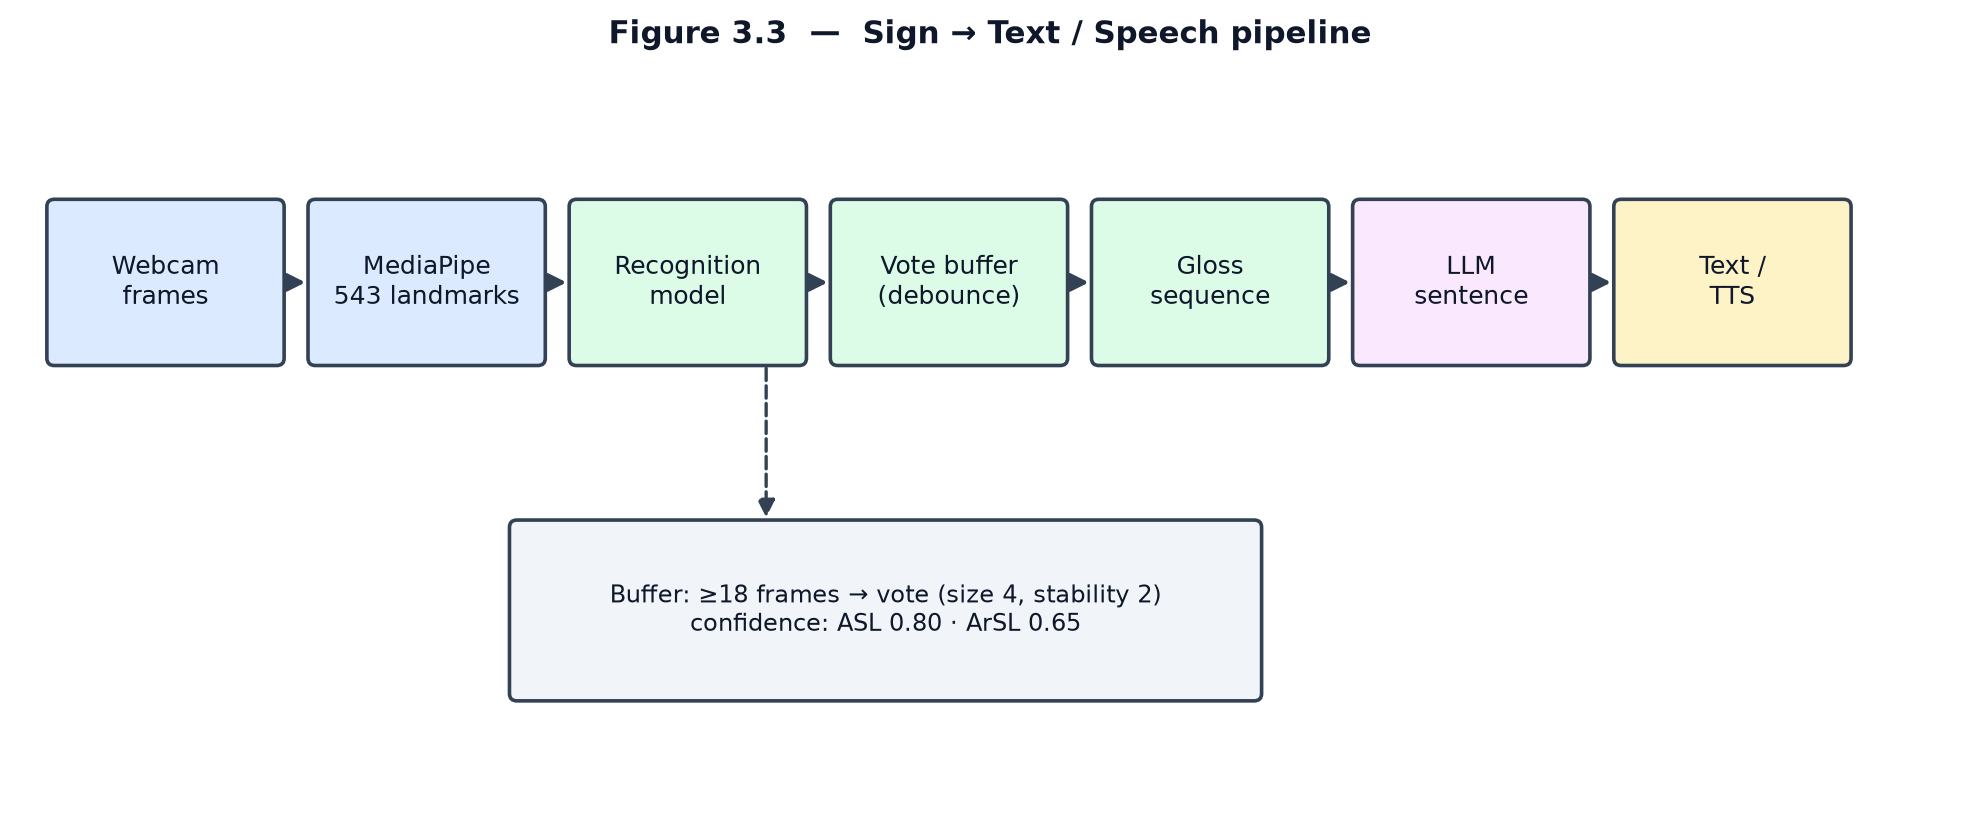
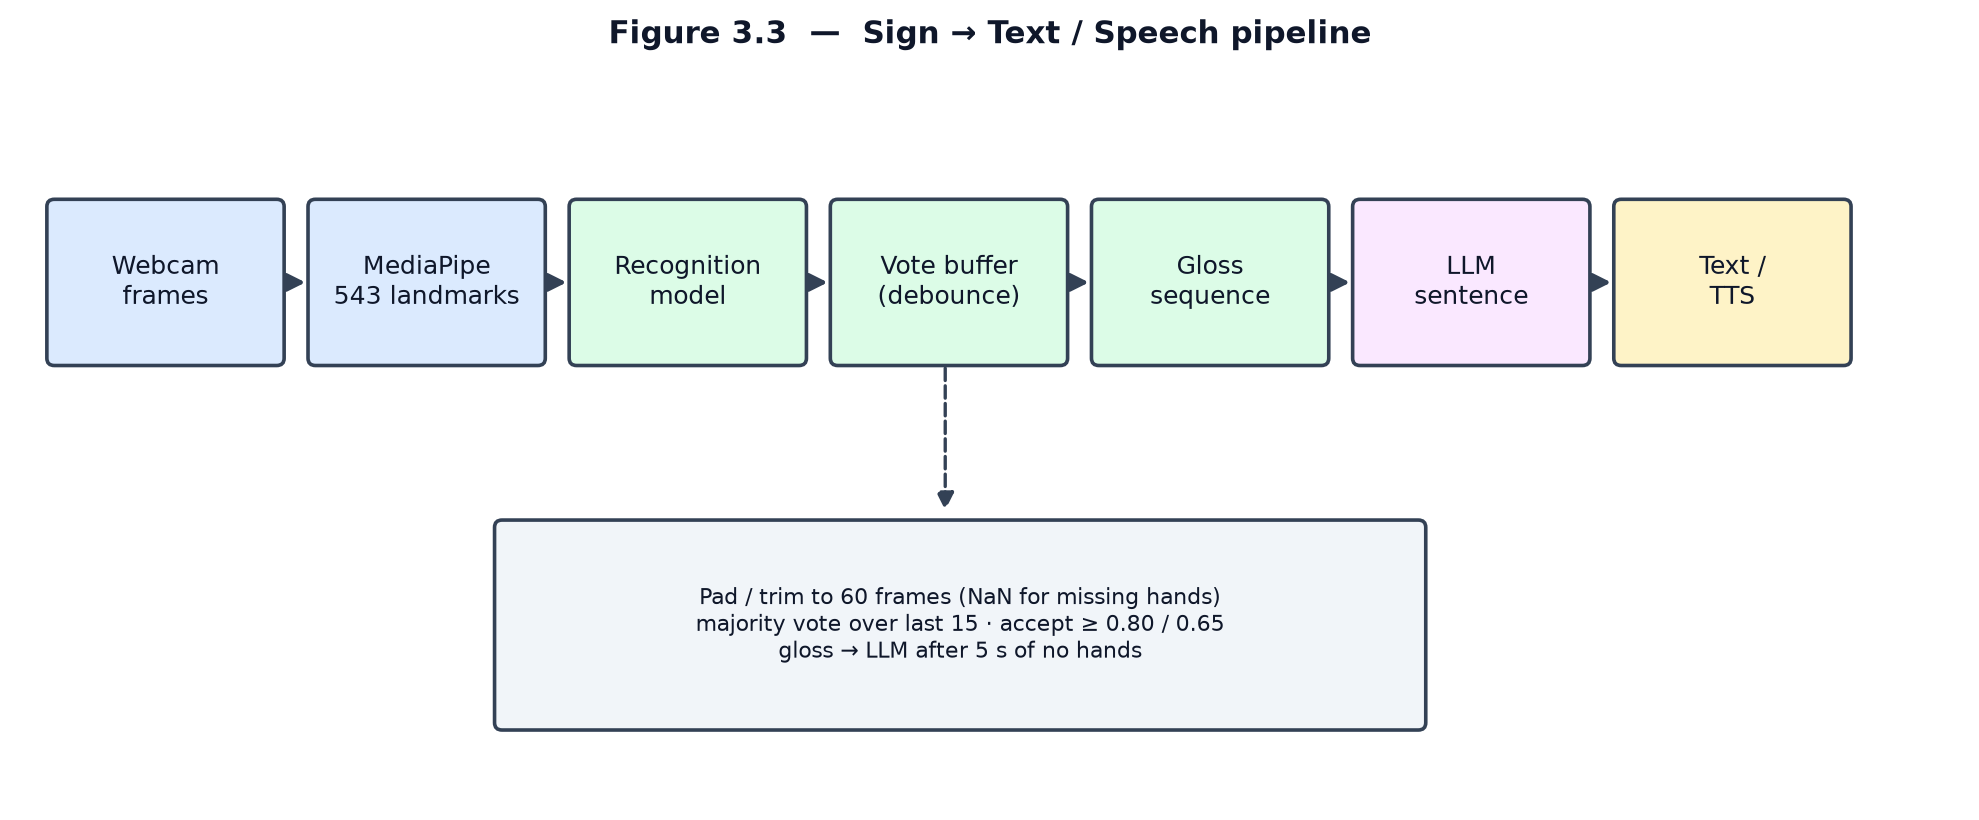
Correct ASL model details in Chapter 3 from authoritative write-up
- ASL preprocessing: 236 landmarks (of 543), drop Z (use X,Y), nose-centering +
  std norm, temporal diffs [x,dx,dx2] -> 1416 features over 60 frames
- ASL architecture: stem conv -> 192, Conv1D blocks (causal DW k=17 + ECA) +
  transformer, GAP -> Dense 250 -> TFLite (Fig 3.5a)
- Buffer: 60-frame window, majority vote over last 15, accept >=0.80/0.65,
  LLM trigger after 5 s idle (Fig 3.3, section 3.5)
- Datasets: record the 4,078-sequence working split (2770/748/560)
- Remove duplicated ArSL paragraph; defer training/regularization to Chapter 4

Claude-Session: https://claude.ai/code/session_01SkAXfGCaehh1TGugmzUAQk

diff --git a/scripts/make_ch3_figures.py b/scripts/make_ch3_figures.py
@@ -93,9 +93,11 @@ for i, (t, c) in enumerate(steps):
     if i < len(steps) - 1:
         arrow(ax, x + w, y + h / 2, x + w + gap, y + h / 2)
     x += w + gap
-box(ax, 3.3, 0.7, 5.0, 1.2,
-    "Buffer: ≥18 frames → vote (size 4, stability 2)\nconfidence: ASL 0.80 · ArSL 0.65", "#f1f5f9", 8.5)
-arrow(ax, 5.0, 3.0, 5.0, 1.9, ls="--", lw=1.2)
+box(ax, 3.2, 0.5, 6.2, 1.4,
+    "Pad / trim to 60 frames (NaN for missing hands)\n"
+    "majority vote over last 15 · accept ≥ 0.80 / 0.65\n"
+    "gloss → LLM after 5 s of no hands", "#f1f5f9", 8)
+arrow(ax, 6.2, 3.0, 6.2, 1.95, ls="--", lw=1.2)
 title(ax, "Figure 3.3  —  Sign → Text / Speech pipeline")
 save(fig, "fig3_3_sign2text.png")
 
@@ -115,16 +117,16 @@ save(fig, "fig3_4_text2sign.png")
 
 # ---------------------------------------------------------- Fig 3.5 Model architectures
 fig, ax = plt.subplots(figsize=(9.5, 6)); ax.set_xlim(0, 12); ax.set_ylim(0, 9); ax.axis("off")
-ax.text(3.0, 8.4, "(a) ASL — landmark-sequence model (TFLite)", ha="center", fontsize=9.5, weight="bold", color=TXT)
-asl = ["Input: ~130 selected\nlandmarks × T", "Normalise +\naugment (CutMix…)",
-       "1D-Conv + Transformer\nencoder (Squeezeformer)", "Global pooling",
-       "Dense → 250\nsoftmax → TFLite"]
+ax.text(3.0, 8.4, "(a) ASL — preprocessing + Squeezeformer (TFLite)", ha="center", fontsize=9, weight="bold", color=TXT)
+asl = ["Select 236 pts (of 543)\ndrop Z → use (X, Y)", "Nose-center (#17)\n+ std normalise",
+       "Temporal diffs [x, dx, dx²]\n→ 1416 / frame", "Stem Conv → 192",
+       "Conv1D blocks (causal DW\nk=17 + ECA) + transformer", "GAP → Dense 250\nsoftmax → TFLite"]
 y = 7.2
 for t in asl:
-    box(ax, 1.4, y, 3.2, 0.85, t, C_ML, 8.5)
+    box(ax, 1.2, y, 3.5, 0.8, t, C_ML, 7.5)
     if t != asl[-1]:
-        arrow(ax, 3.0, y, 3.0, y - 0.45)
-    y -= 1.3
+        arrow(ax, 2.95, y, 2.95, y - 0.5)
+    y -= 1.2
 ax.text(9.0, 8.4, "(b) ArSL — CNN-GRU model", ha="center", fontsize=9.5, weight="bold", color=TXT)
 ar = ["Input: N × 177\nskeletal sequence", "Conv1D 177→128\n(k=3) + BN + ReLU",
       "Conv1D 128→128\n(k=3) + BN + ReLU", "Bi-GRU 128→64\n2 layers, dropout 0.3",

diff --git a/docs/chapter3_design.md b/docs/chapter3_design.md
@@ -95,8 +95,11 @@ by 21 Deaf signers. Crucially, the dataset does not contain raw video; each samp
 is a sequence of **MediaPipe landmarks** — 543 points per frame (face, pose, and
 both hands), stored as x/y/z coordinates. This format aligns exactly with the
 browser front-end, so the same landmark representation is used for training and for
-live inference. The ArSL model is trained on the **ASL 20-Words (Arabic) dataset**
-of Balaha [26], a set of 20 isolated Arabic sign words.
+live inference. From this corpus, a working subset of 4,078 sequences is used for
+the present work, partitioned into training (2,770; ≈68%), validation (748; ≈18%),
+and test (560; ≈14%) sets following a WLASL-style split. The ArSL model is trained
+on the **ASL 20-Words (Arabic) dataset** of Balaha [26], a set of 20 isolated Arabic
+sign words.
 
 **Table 3.1 — Datasets used to train the recognition models.**
 
@@ -111,14 +114,17 @@ of Balaha [26], a set of 20 isolated Arabic sign words.
 ## 3.5 Sign-to-Text / Speech Subsystem
 
 The sign-to-spoken pipeline is shown in Fig. 3.3. The browser streams landmark
-frames to the server, where the appropriate model classifies each isolated sign.
-Because the models recognise one sign at a time, raw predictions are passed through
-a **voting buffer** that debounces them before they are committed: a minimum
-sequence length is required before any prediction is made, a short vote window
-selects the most consistent label, and a per-language confidence threshold (0.80
-for ASL, 0.65 for ArSL) rejects uncertain detections. The committed signs form a
-gloss sequence, which is sent to the language stage (§3.6) and, optionally, spoken
-through text-to-speech.
+frames to the server, where each prediction operates on a fixed window of **60
+frames**: shorter streams are padded by repeating the last valid frame and longer
+ones are trimmed to the most recent 60, with occluded hands represented as NaN
+rather than zero so that missing landmarks are not pinned to the origin. Because the
+models recognise one sign at a time, raw predictions are passed through a **voting
+buffer** that debounces them: a prediction is accepted only if its top probability
+exceeds the confidence threshold (0.80 for ASL, 0.65 for ArSL), and a majority vote
+over the last 15 accepted predictions suppresses jitter. The voted signs accumulate
+into a gloss sequence, which is sent to the language stage (§3.6) once the user's
+hands leave the frame for several seconds, and is optionally spoken through
+text-to-speech.
 
 ![Figure 3.3](figures/fig3_3_sign2text.png)
 
@@ -126,15 +132,21 @@ through text-to-speech.
 
 The two recognition models are designed around the landmark representation rather
 than raw pixels, as motivated in Chapter 2. Their architectures are shown in
-Fig. 3.5. The ASL model follows the design of the top-performing solution to the
-Google ISLR competition. From the 543 MediaPipe landmarks it selects roughly 130
-informative points — the lips, eyes, and nose together with both hands and
-upper-body pose — normalises them, and applies sign-specific augmentations such as
-CutMix, finger dropout, and time stretching during training. The selected landmark
-sequence is encoded by a hybrid **1D-convolution + Transformer (Squeezeformer-style)
-encoder** that captures both local temporal patterns and long-range dependencies,
-followed by global pooling and a 250-way softmax classifier. The model is trained in
-PyTorch and exported to TFLite for efficient server-side inference.
+Fig. 3.5. The ASL model adapts the Squeezeformer design of the top-performing solution to the
+Google ISLR competition and embeds its own preprocessing. From the 543 MediaPipe
+landmarks per frame it keeps **236** informative points (lips, both hands, and upper
+body) and discards the dense facial mesh; it then **drops the z axis and uses only
+the (x, y) coordinates**, centres them on the nose landmark, and normalises by the
+sequence standard deviation. Two temporal differences (first- and second-order, dx
+and dx²) are concatenated with the coordinates, giving **1,416 features per frame**
+over a fixed **60-frame** window. A stem convolution projects these to a
+192-dimensional representation, which is processed by a stack of Conv1D blocks —
+each combining a point-wise convolution, a **causal depthwise convolution** (kernel
+size 17) that prevents future frames from leaking into past ones, and Efficient
+Channel Attention (ECA) with a residual connection — interleaved with multi-head
+self-attention and a transformer block. Global average pooling and a 250-way softmax
+produce the prediction, and the model is exported to TFLite for server-side
+inference.
 
 The ArSL model is a compact **CNN-GRU** that operates on a 177-dimensional skeletal
 feature vector per frame. Two one-dimensional convolutional blocks (177→128 then
@@ -148,8 +160,9 @@ then 64→20) with a softmax yield the 20-class prediction.
 
 **Figure 3.5 — Recognition model architectures.**
 
-> Note: training hyperparameters (optimiser, learning rate, epochs, and input
-> window length) are reported in Chapter 4.
+> Note: data augmentation, regularization (Drop-Path, late dropout, AWP), and the
+> full training schedule (optimiser, learning rate, epochs) are detailed in
+> Chapter 4.
 
 ## 3.6 Gloss-to-Sentence Translation
 
